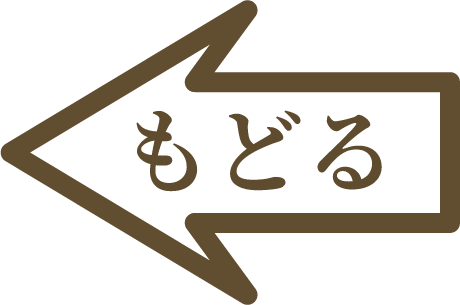
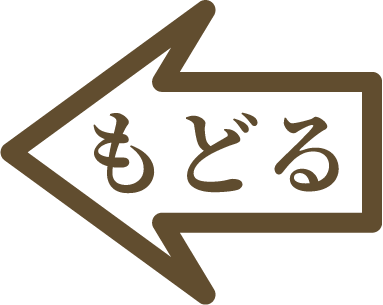
a

diff --git a/src/App.css b/src/App.css
@@ -957,6 +957,12 @@ button:focus-visible {
   color: #8f1748;
 }
 
+.scene-cg-note {
+  color: #d00000;
+  font-size: 0.92em;
+  font-weight: 900;
+}
+
 .scene-reenact-button {
   display: block;
   position: absolute;
@@ -1368,11 +1374,11 @@ button:focus-visible {
 
 .answer-back {
   position: absolute;
-  top: 1670px;
-  left: 40px;
+  top: 1683px;
+  left: 15px;
   width: 204px;
   min-width: 0;
-  height: 155px;
+  height: 130px;
   margin: 0;
   border: 0;
   background: transparent;

diff --git a/src/App.tsx b/src/App.tsx
@@ -2188,6 +2188,8 @@ function SceneOne({
             君たちがこの会場に入る前にボクがみた光景を、
             <br />
             なるべく<strong>忠実に再現</strong>するね。
+            
+           
           </p>
         </div>
         {!isVideoRevealed && (
